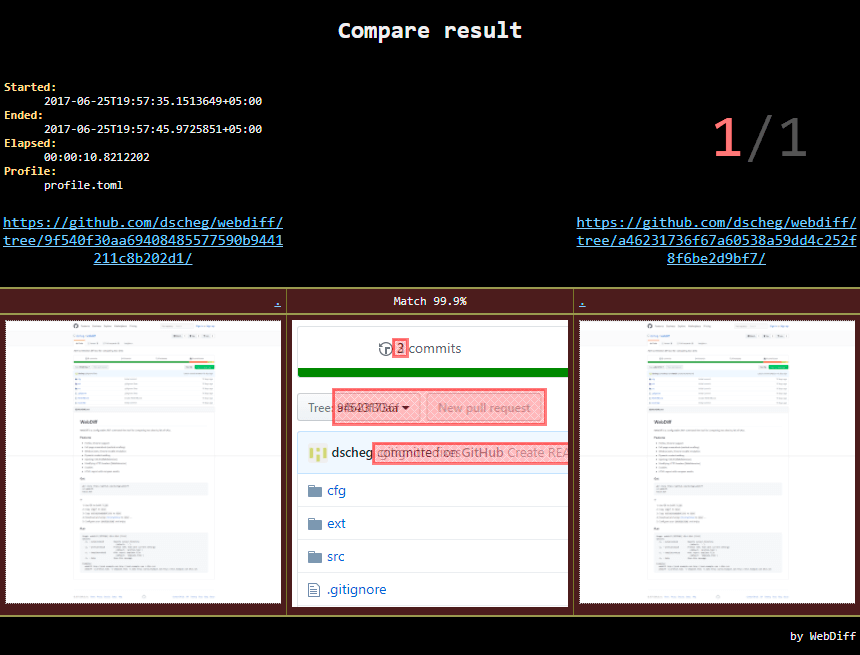
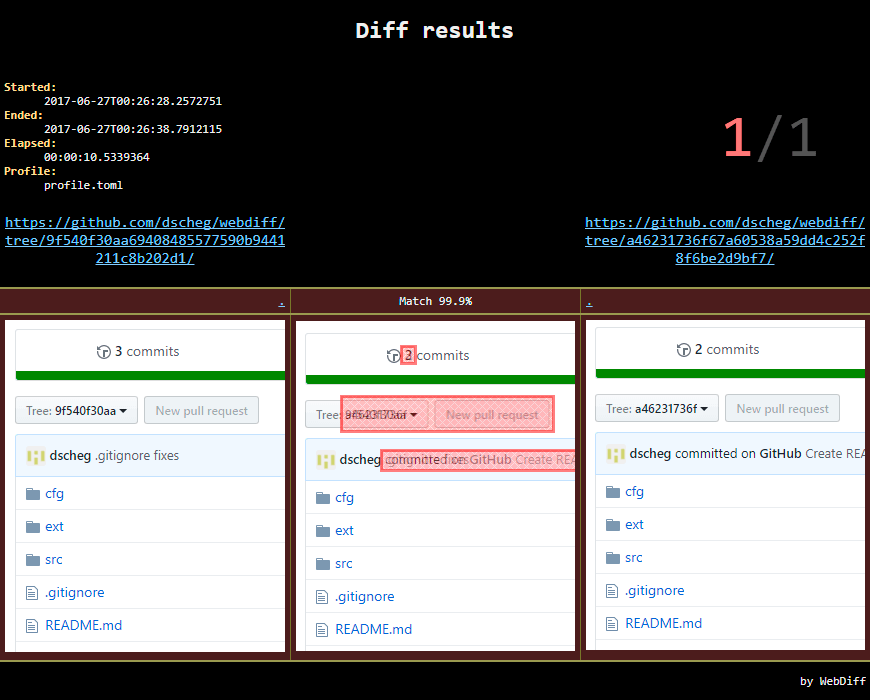
* Small issues * License

Changed region(s): [[0.0, 0.1221, 1.0, 0.9771], [0.8163, 0.1527, 0.9372, 0.2443], [0.393, 0.0305, 0.6047, 0.0611]]

diff --git a/cfg/template.html b/cfg/template.html
@@ -130,7 +130,7 @@
 </head>
 <body>
 <script id="template" type="text/template">
-  <h1>Compare result</h1>
+  <h1>Diff results</h1>
   <div id="info">
     <dl id="info-props">
       <dt>Started:</dt><dd>{{started}}</dd>
@@ -205,15 +205,15 @@
       item.statusClss = item.response && item.response.statusCode >= 400 ? "alert" : "";
     }
 
-    for(var diff of json.diffs) {
+    for(let diff of json.diffs) {
       diff.clss = diff.areSame ? "same" : "diff";
       setStatusClass(diff.left);
       setStatusClass(diff.right);
       diff.match = (100.0 * diff.match).toFixed(1);
     }
 
-    var template = $("#template").html();
-    var html = Mustache.to_html(template, json);
+    let template = $("#template").html();
+    let html = Mustache.to_html(template, json);
     $("body").html(html);
 
     $("a").click((e) => {
@@ -229,6 +229,16 @@
       $(".tdiff-h.same").show()
 
     $(".zoom").zoom();
+
+    $(document).on("mouseenter mouseleave mousemove", ".zoomImg", function(e) {
+      let x = $(this).prev().offset().left;
+      $(this).closest("tr").find(".zoomImg").not(this).each(function() {
+        let e2 = $.Event(e.type + ".zoom"), item = $(this);
+        e2.pageX = e.pageX + item.prev().offset().left - x;
+        e2.pageY = e.pageY;
+        item.trigger(e2)
+      });
+    });
   }
 </script>
 <script src="results.js"></script>

diff --git a/README.md b/README.md
@@ -9,7 +9,7 @@ WebDiff is a configurable .NET command-line tool for comparing two sites by list
 * Injecting CSS/JS [WebExtension]
 * Modifying HTTP-headers [WebExtension]
 * Cookies
-* HTML report with compare results
+* HTML report with diff results
 
 ![png](img/example.png)
 
